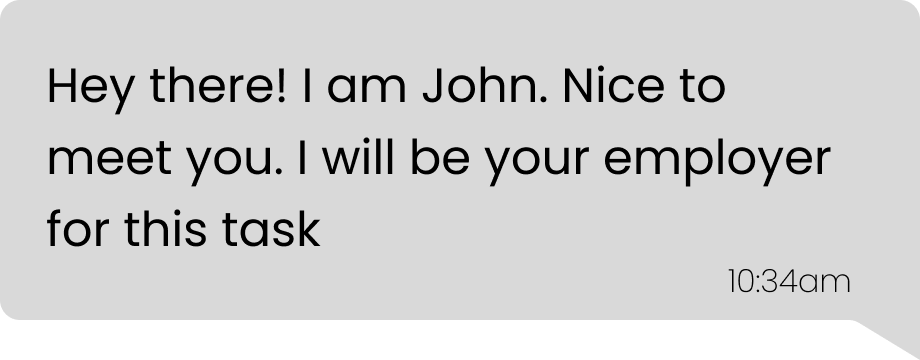
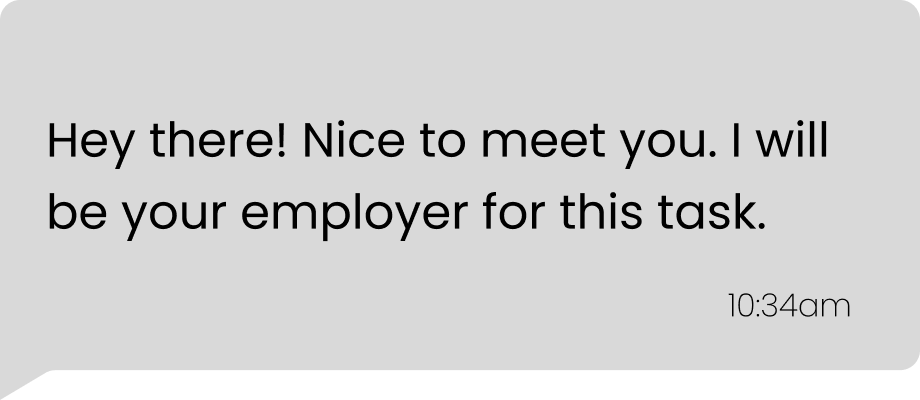
Customized message for each chat

Changed region(s): [[0.0304, 0.1833, 0.913, 0.7028], [0.0, 0.8556, 1.0, 1.0], [0.7913, 0.7333, 0.9435, 0.825]]

diff --git a/module3/inbox.html b/module3/inbox.html
@@ -77,7 +77,7 @@
             <h1 class="h1-inbox">Chats</h1>
             <div class="row-inbox">
                 <table class="table-inbox" id="inbox-table">
-                    <tr  class="selected-inbox">
+                    <tr class="selected-inbox" data-image="images-inbox/msg1.png">
                         <td>
                             <p class="name">Mr Ahmad</p>
                             <p class="message">Hey there! I am...</p>
@@ -85,28 +85,28 @@
                         <td class="timestamp">10:34am</td>
                     </tr>
 
-                    <tr>
+                    <tr data-image="images-inbox/msg2.png">
                         <td>
                             <p class="name">Martha</p>
                             <p class="message">I will need someone...</p>
                         </td>
                         <td class="timestamp">3:31pm</td>
                     </tr>
-                    <tr>
+                    <tr data-image="images-inbox/msg3.png">
                         <td>
                             <p class="name">Web Dev group</p>
                             <p class="message">Does anyone here knows how...</p>
                         </td>
                         <td class="timestamp">11:52am</td>
                     </tr>
-                    <tr>
+                    <tr data-image="images-inbox/msg4.png">
                         <td>
                             <p class="name">Photo shoot group</p>
                             <p class="message">Anyone free to...</p>
                         </td>
                         <td class="timestamp">2:10pm</td>
                     </tr>
-                    <tr>
+                    <tr data-image="images-inbox/msg5.png">
                         <td>
                             <p class="name">Lee Cheng</p>
                             <p class="message">Hi, I will be assigning...</p>
@@ -124,7 +124,10 @@
                 <!-- <img class="message-vector" src="images-inbox/message-vector.png" alt="Message vector" />
                 <p class="start-conversation">Start a conversation with employers or users</p> -->
             </div>
-            <img class="image-container" src="images-inbox\msg1.png" alt="Message container"/>
+            <div>
+                <img id="image-container" src="images-inbox/msg1.png" alt="Message container"/>
+            </div>
+           
             
             <div class="message-box" id="message-box">
                 <textarea class="message-input" id="message-input" placeholder="Type your message"></textarea>

diff --git a/module3/script.js b/module3/script.js
@@ -37,6 +37,8 @@ document.addEventListener('DOMContentLoaded', function () {
 
     var imageContainer = document.getElementById("image-container");
     var inboxTable = document.getElementById("inbox-table");
+    var width = 300;
+    var height = 150;
 
     inboxTable.addEventListener("click", function(event) {
         var target = event.target.closest("tr");
@@ -44,6 +46,8 @@ document.addEventListener('DOMContentLoaded', function () {
             var imageUrl = target.getAttribute("data-image");
             if (imageUrl) {
                 imageContainer.src = imageUrl;
+                imageContainer.style.width = width + "px";
+                imageContainer.style.height = height + "px";
             }
         }
     });

diff --git a/module3/style-inbox.css b/module3/style-inbox.css
@@ -238,10 +238,10 @@ header .navbar ul li:hover > ul {
     display: flex;
     flex: 1; /* Takes up remaining width */
     background-color: #F7F2E7; 
-    text-align: center;
+    text-align: left;
     box-sizing: border-box;
     justify-content: center;
-    align-items: center;
+    align-items: left;
     flex-direction: column;
 }
 
@@ -354,11 +354,11 @@ textarea {
     background-color: #F9E0AB;
 }
 
-.image-container {
+#image-container {
     display: absolute;
-    margin-left: 50%;
+    margin-left: 7%;
     margin-top: 30%;
     margin-bottom: 3em;
-    width: 250px;
-    height: 100px;
+    width: 300px;
+    height: 150px;
 }
